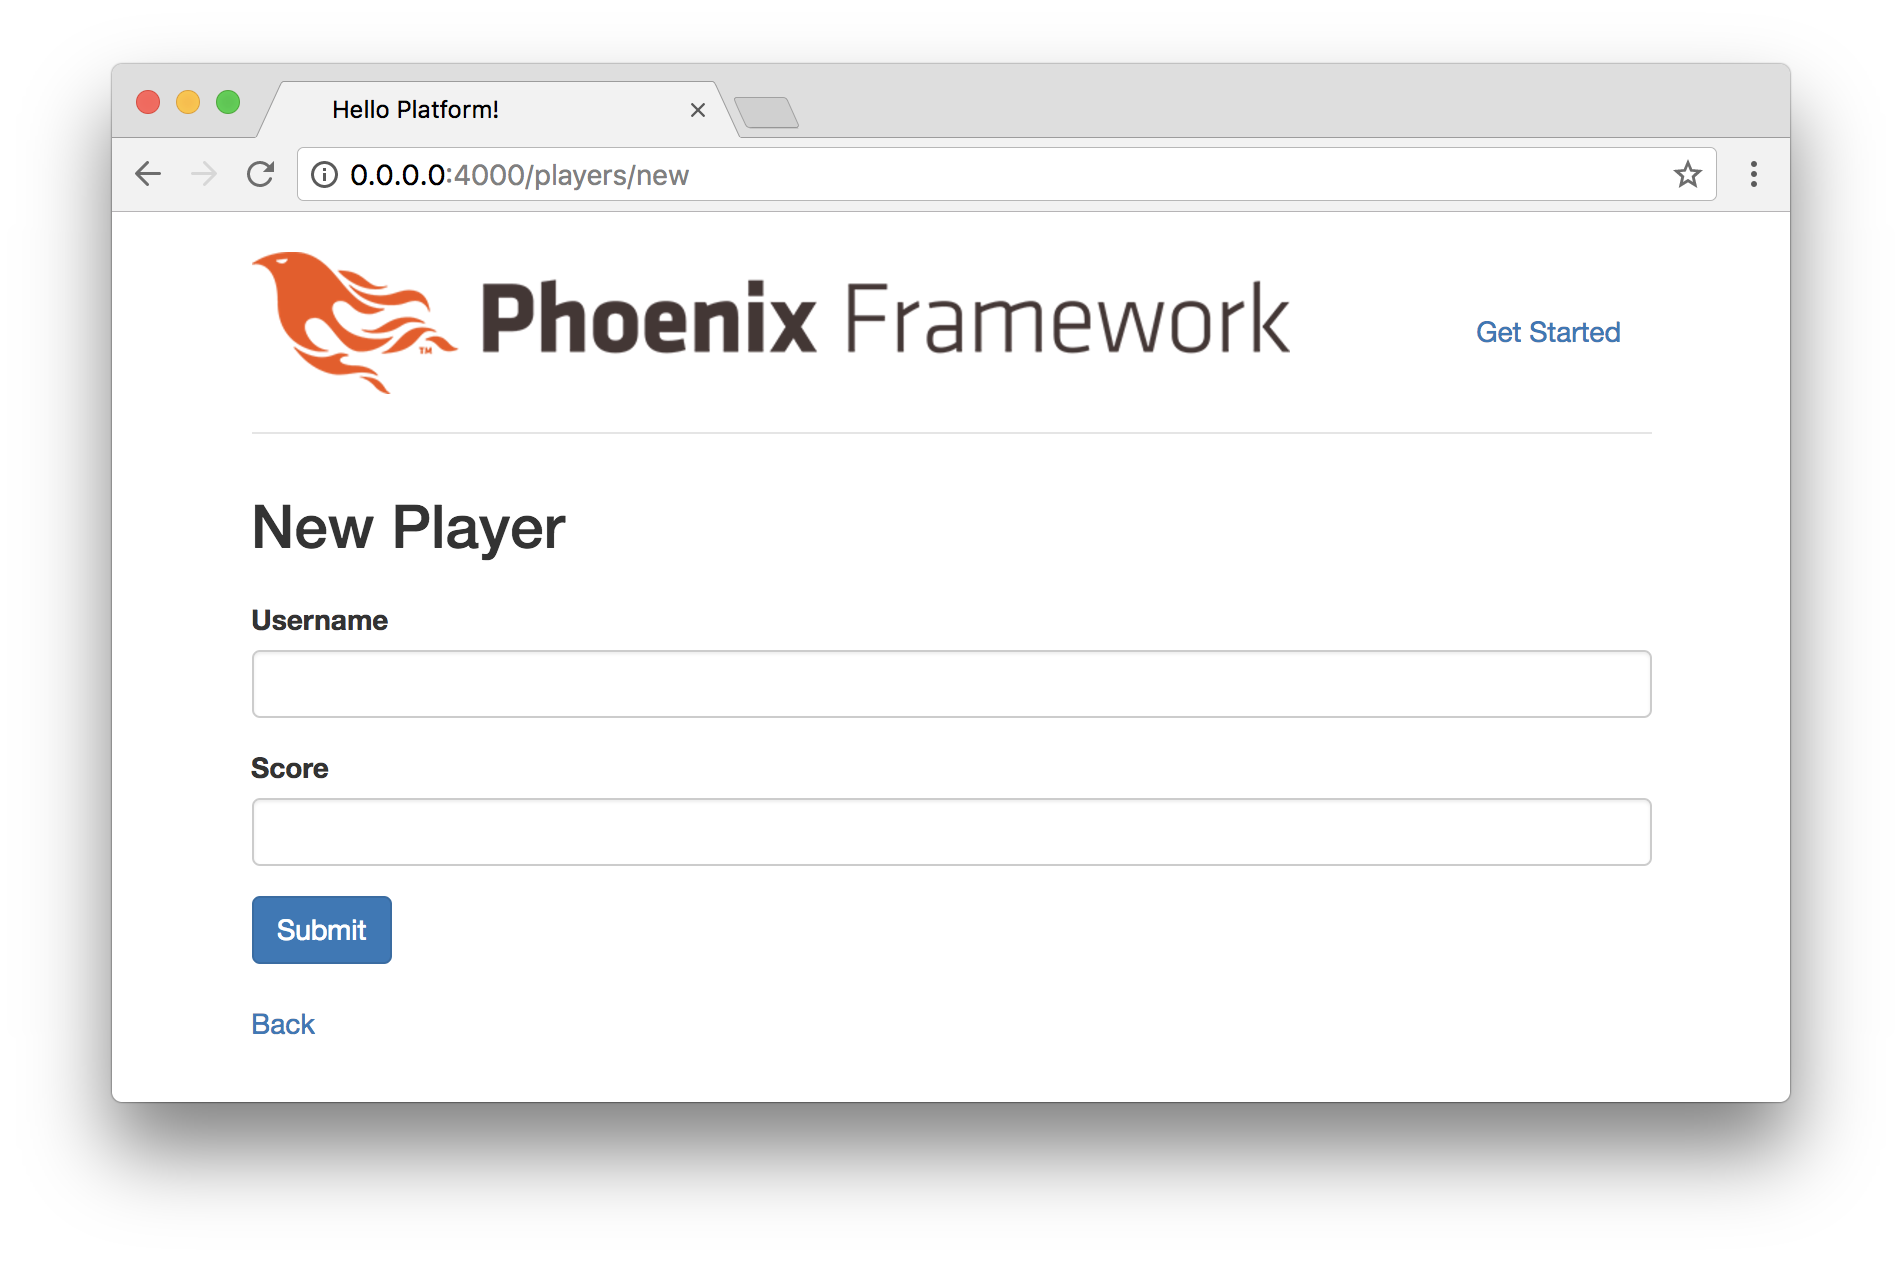
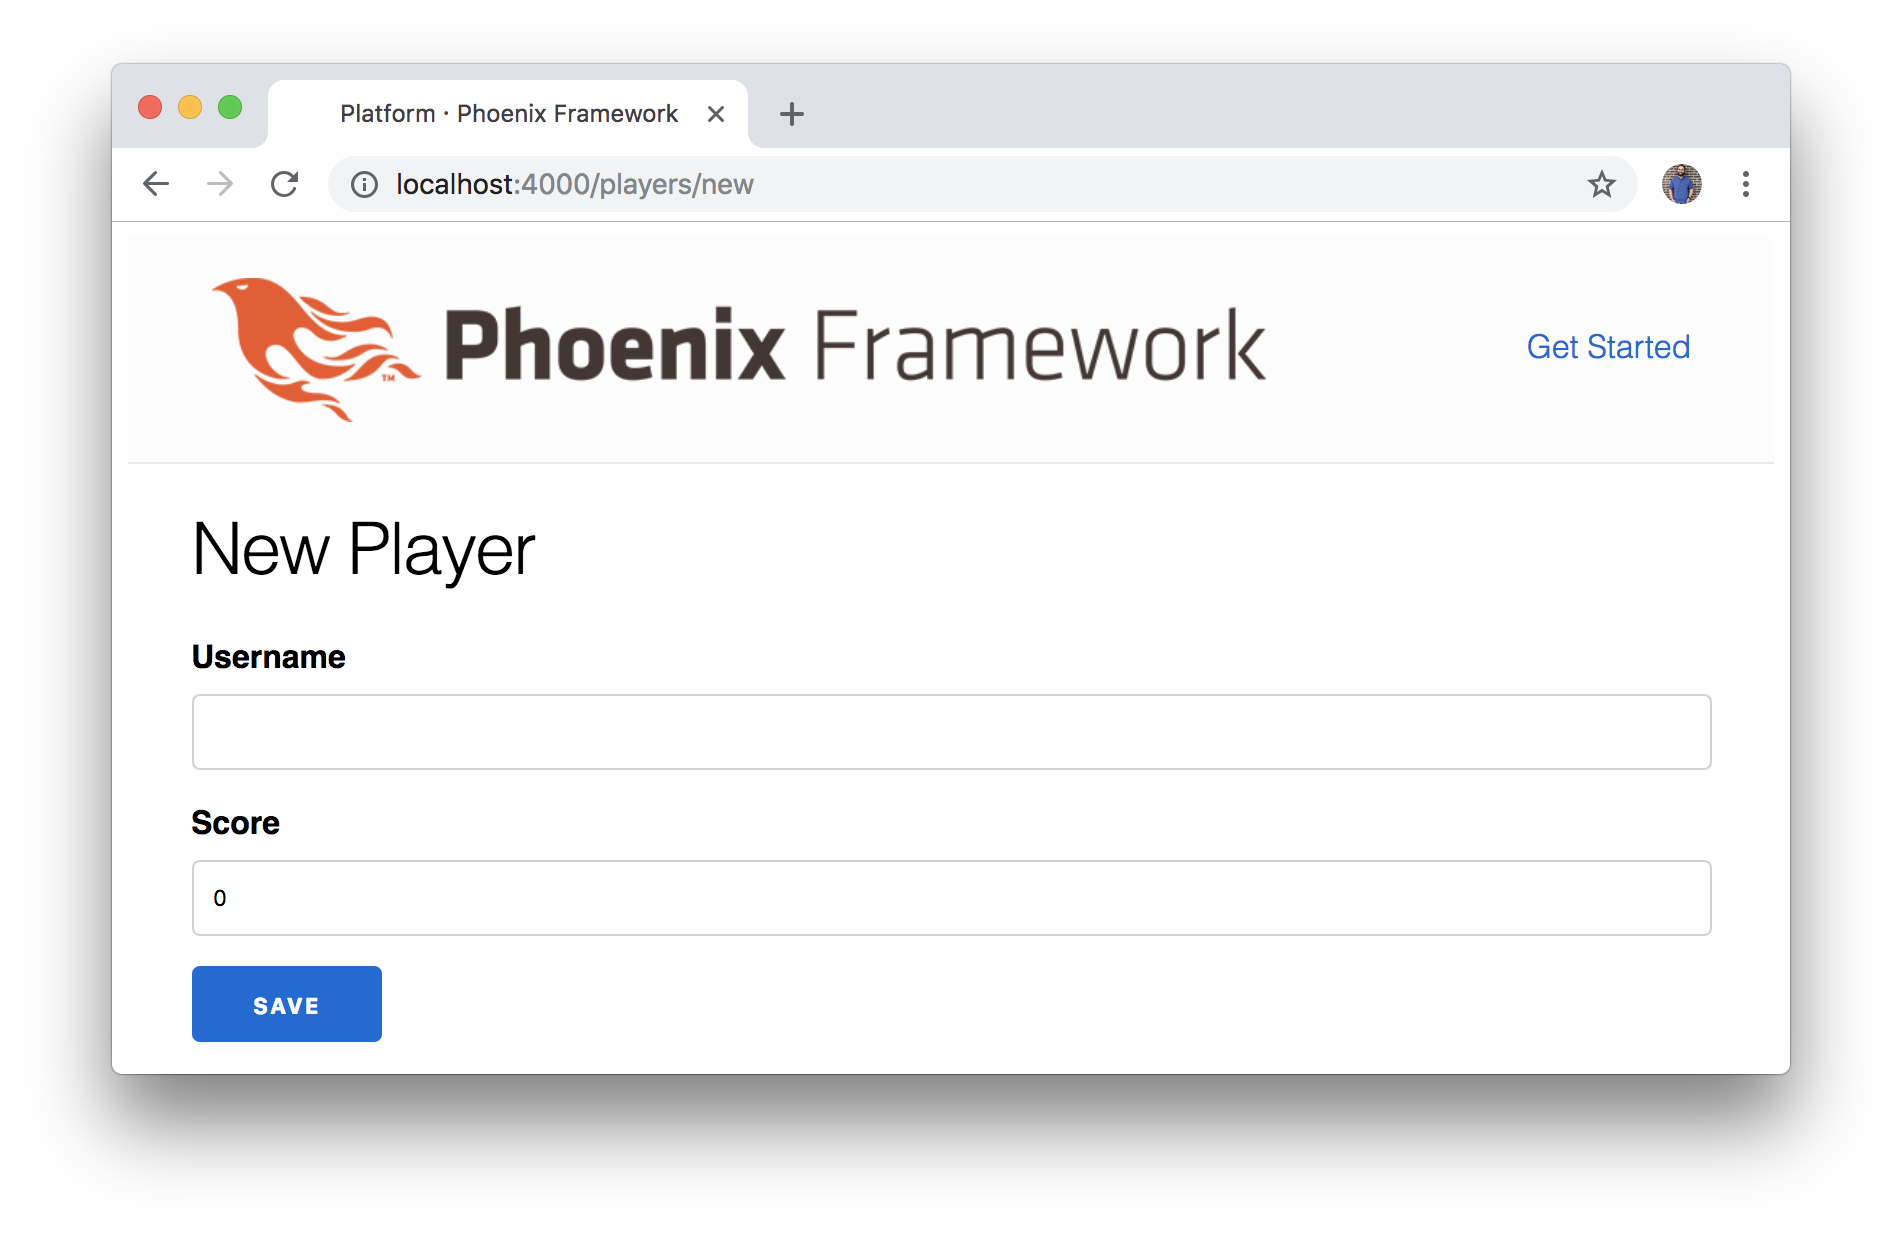
Updates to the create player page

diff --git a/manuscript/phoenix_sign_up.md b/manuscript/phoenix_sign_up.md
@@ -254,11 +254,11 @@ We'll start with what we want our users to do when they first sign up. Open up
 the `lib/platform_web/templates/player/new.html.eex` file:
 
 ```embedded_elixir
-<h2>New Player</h2>
+<h1>New Player</h1>
 
-<%= render "form.html", Map.put(assigns, :action, player_path(@conn, :create)) %>
+<%= render "form.html", Map.put(assigns, :action, Routes.player_path(@conn, :create)) %>
 
-<span><%= link "Back", to: player_path(@conn, :index) %></span>
+<span><%= link "Back", to: Routes.player_path(@conn, :index) %></span>
 ```
 
 From the looks of the code here, the page is rendering a `"form.html"` file,
@@ -286,31 +286,29 @@ be able to delete the shared `form.html.eex` file as a result.
 Let's start by updating our `new.html.eex` file:
 
 ```embedded_elixir
-<h2>New Player</h2>
+<h1>New Player</h1>
 
-<%= form_for @changeset, player_path(@conn, :create), fn f -> %>
+<%= form_for @changeset, Routes.player_path(@conn, :create), fn f -> %>
   <%= if @changeset.action do %>
     <div class="alert alert-danger">
       <p>Oops, something went wrong! Please check the errors below.</p>
     </div>
   <% end %>
 
-  <div class="form-group">
-    <%= label f, :username, "Player Username", class: "control-label" %>
-    <%= text_input f, :username, placeholder: "Enter username...", class: "form-control" %>
-    <%= error_tag f, :username %>
-  </div>
+  <%= label f, :username %>
+  <%= text_input f, :username %>
+  <%= error_tag f, :username %>
 
-  <div class="form-group">
-    <%= label f, :password, "Player Password", class: "control-label" %>
-    <%= password_input f, :password, placeholder: "Enter password...", class: "form-control" %>
-    <%= error_tag f, :password %>
-  </div>
+  <%= label f, :password %>
+  <%= text_input f, :password %>
+  <%= error_tag f, :password %>
 
-  <div class="form-group">
-    <%= submit "Submit", class: "btn btn-primary" %>
+  <div>
+    <%= submit "Save" %>
   </div>
 <% end %>
+
+<span><%= link "Back", to: Routes.player_path(@conn, :index) %></span>
 ```
 
 We're basically moving some of the content from the `form.html.eex` file into
